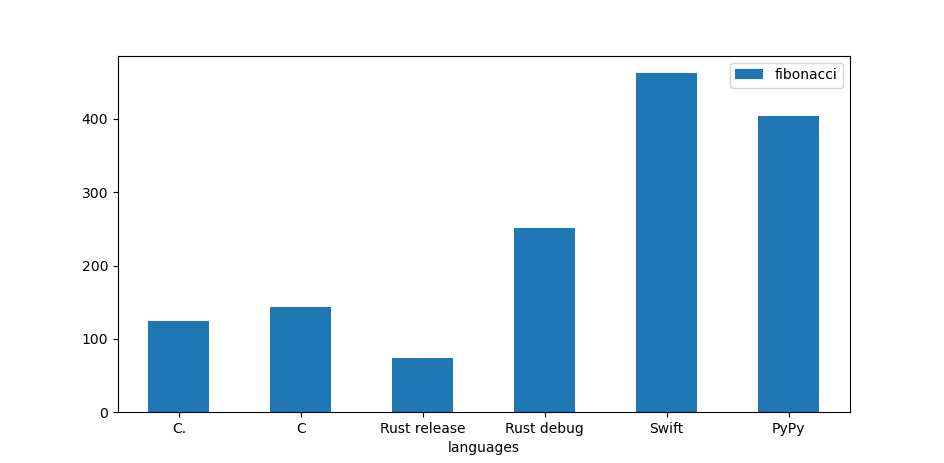
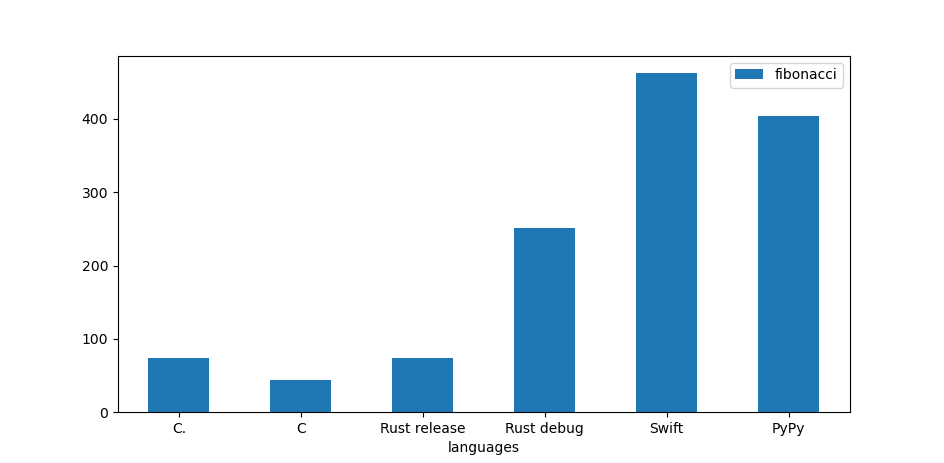
add optimized for C and C. benchmarks

Changed region(s): [[0.2765, 0.6652, 0.3686, 0.8467], [0.1536, 0.6955, 0.2458, 0.7862]]

diff --git a/docs/benchmarks.md b/docs/benchmarks.md
@@ -6,8 +6,10 @@ The benchmark are run on a sytem with a ryzen 5 5600g, 32go of ram and running M
 
 Finding the 50th Fibonacci number using a recursive function
 
-C. : 124.724s  
-C (gcc 13.2.1) : 143.587s  
+C. no opti : 124.724s
+C. -O3 : 73.501s
+C no opti (gcc 13.2.1) : 143.587s  
+C -O3 (gcc 13.2.1) : 43.947s
 Rust release (rustc 1.77.1) : 73.132s  
 Rust debug (rustc 1.77.1) : 250.724s  
 Nim 2.0.2 release :  85.547s  
@@ -26,8 +28,10 @@ Nodejs v21.7.1 : 327.946s
 
 Finding the factors of 2,000,000,000
 
-C. : 2.716s  
-C (gcc 13.2.1) : 3.177s
+C. no opti : 2.716s
+C. -O3 : 2.711s
+C no opti (gcc 13.2.1) : 3.177s
+C -O3 (gcc 13.2.1) : 3.161s
 Rust release (rustc 1.77.1) : 2.712s 
 Rust debug (rustc 1.77.1) : 9.577s  
 Nim 2.0.2 release : 3.187s  
